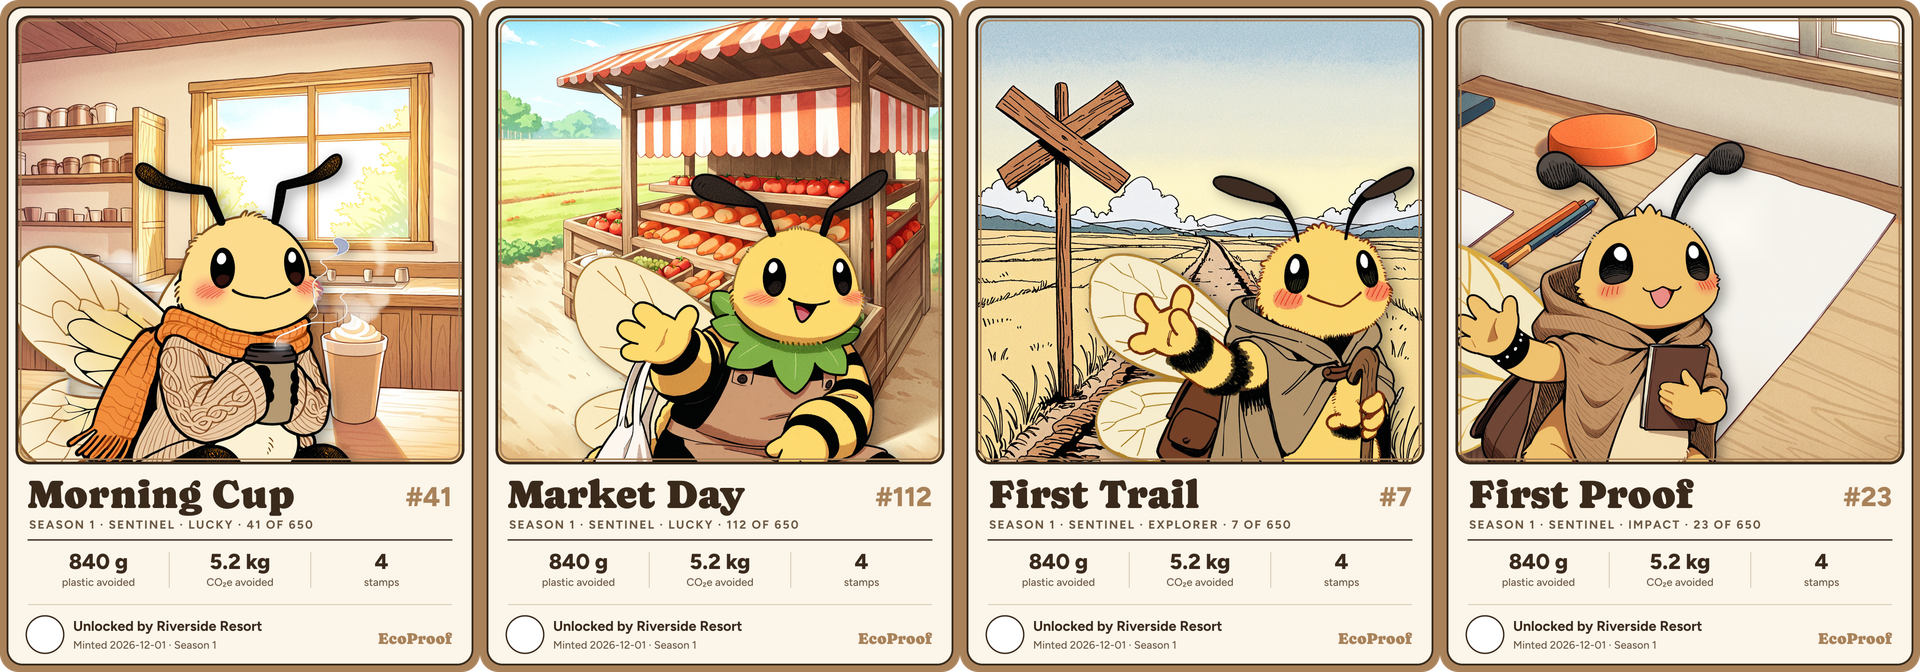
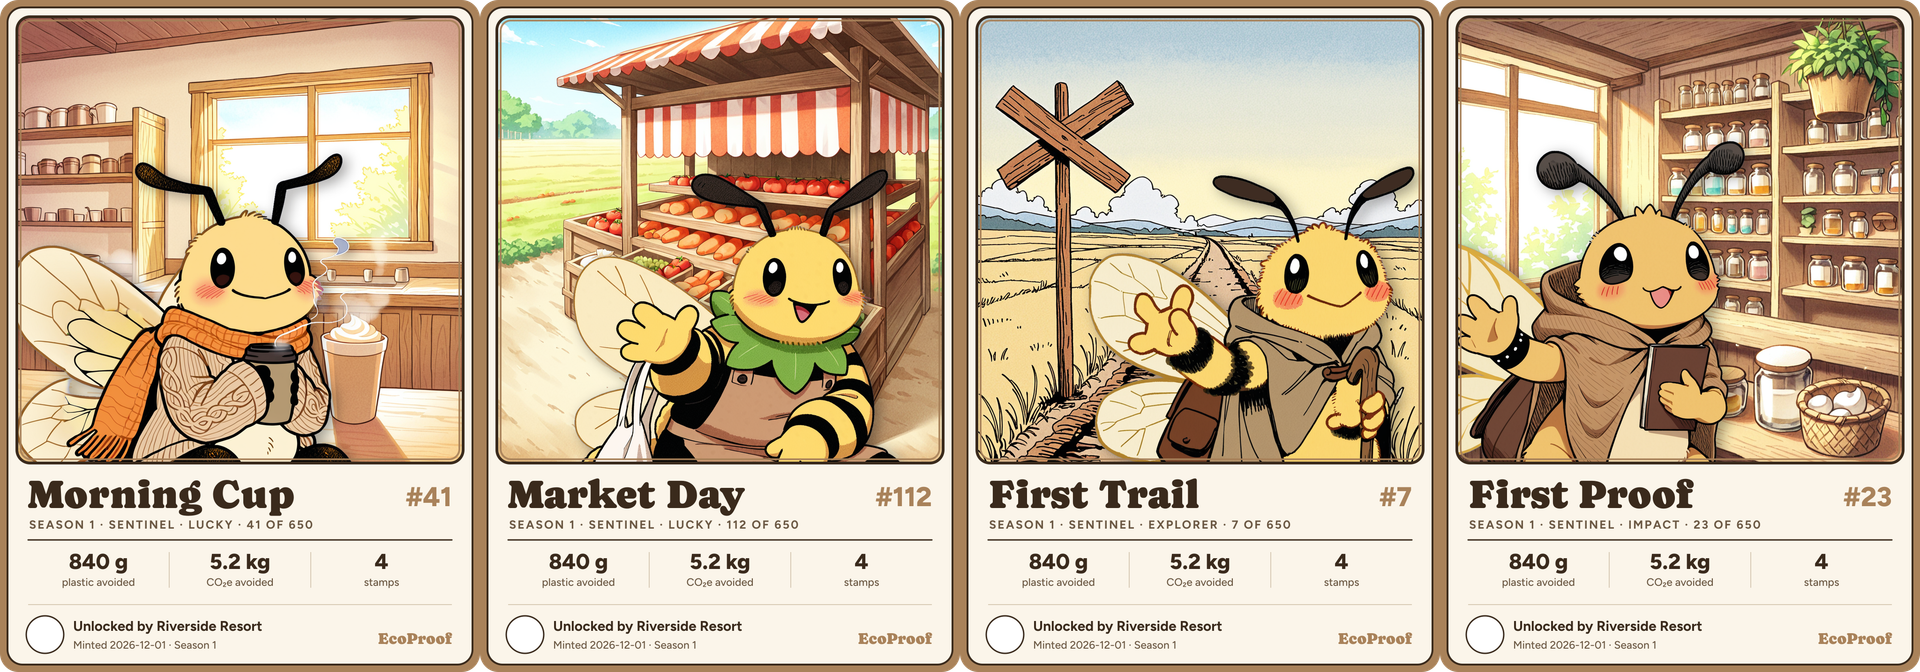
Season 1 art test: First Proof in a zero-waste shop
Claude-Session: https://claude.ai/code/session_01HWHP3iugw8gkvvKKS5vpBj

Changed region(s): [[0.75, 0.0312, 1.0, 0.6875]]

diff --git a/art/season1/scene.py b/art/season1/scene.py
@@ -14,7 +14,7 @@ SCENES = {
  "morning_cup": "indoors, cosy small cafe, wooden counter across the bottom, on the counter at the right a tall reusable bamboo coffee cup with a lid, steam, big window with warm morning sunlight, shelf with ceramic cups on the wall",
  "market_day": "outdoors, farmers market, wooden market stall with a red and cream striped awning at the top, wooden crates full of carrots, tomatoes, apples and leafy greens at the right, a cream cotton tote bag full of vegetables standing on the table, sunny day, blue sky",
  "first_trail": "outdoors, countryside, at the right a tall wooden signpost with two blank wooden arrow boards pointing left and right, winding dirt path, soft rolling hills, a few round trees, big pale morning sky with small clouds",
- "first_proof": "indoors, still life, wooden desk across the bottom, at the right an open notebook with blank cream pages lying flat on the desk, one page has a single round-cornered orange ink stamp print in its middle, a wooden handled rubber stamp standing next to the notebook, a pencil, plain warm cream wall, soft window light from the left",
+ "first_proof": "indoors, cosy small zero waste shop seen at eye level, wooden shop counter across the bottom, behind it wooden shelves with rows of glass jars, refill dispensers and woven baskets, a hanging plant, warm afternoon sunlight from a window at the left, on the counter at the right a small wooden stand holding a blank cream card and a wooden rubber stamp",
 }
 def post(path, payload):
     req = urllib.request.Request(API + path, data=json.dumps(payload).encode(), headers={"Content-Type": "application/json"})

diff --git a/art/season1/compose.py b/art/season1/compose.py
@@ -11,8 +11,7 @@ PICKS = {  # card: bee render, scene, size of the bee (1 = full width), x of its
  "market_day": dict(bee="market_day_bee_d78_66002.png", scene="market_day_scene_63001.png", scale=0.76, x=150),
  # the render drew the antenna tips cream: darkened to the Sentinel's own brown-black
  "first_trail": dict(bee="first_trail_bee_d68_66001.png", scene="first_trail_scene_63004.png", scale=0.78, x=235, dark=[(370, 120, 610, 260), (790, 120, 1010, 260)]),
- # the scene's orange blot on the paper sat right behind the head like a tuft of hair: painted out
- "first_proof": dict(bee="first_proof_bee_d70_67002.png", scene="first_proof_scene_64006.png", scale=0.82, x=-150, erase=[(545, 395, 725, 570)]),
+ "first_proof": dict(bee="first_proof_bee_d70_67002.png", scene="first_proof_scene_68002.png", scale=0.82, x=-150),
 }
 def key(im):
     """Alpha from hue: the background is the only blue-violet thing; holes inside the bee are filled, loose specks dropped."""
